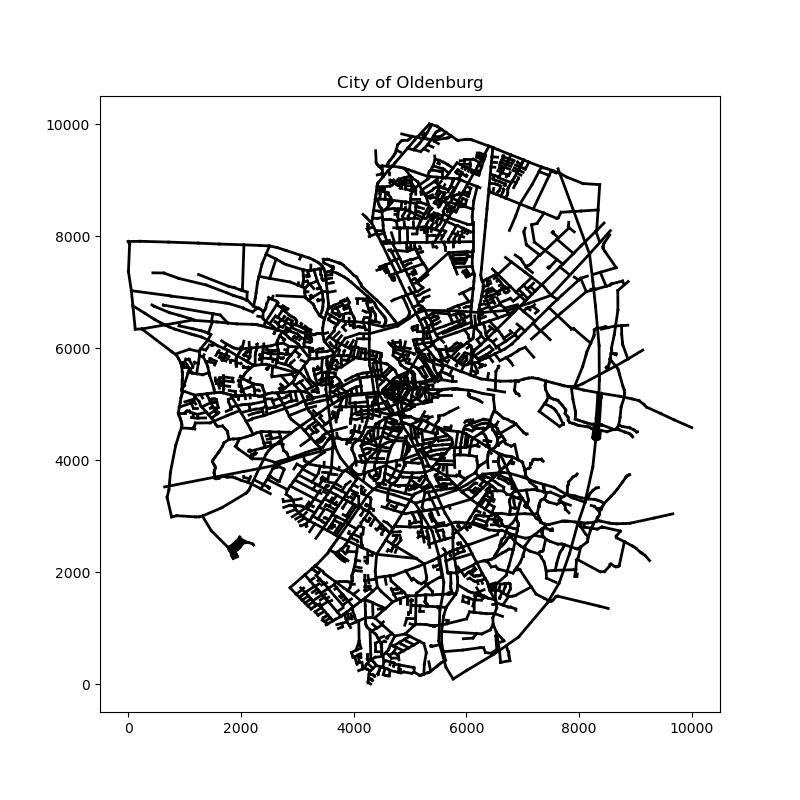
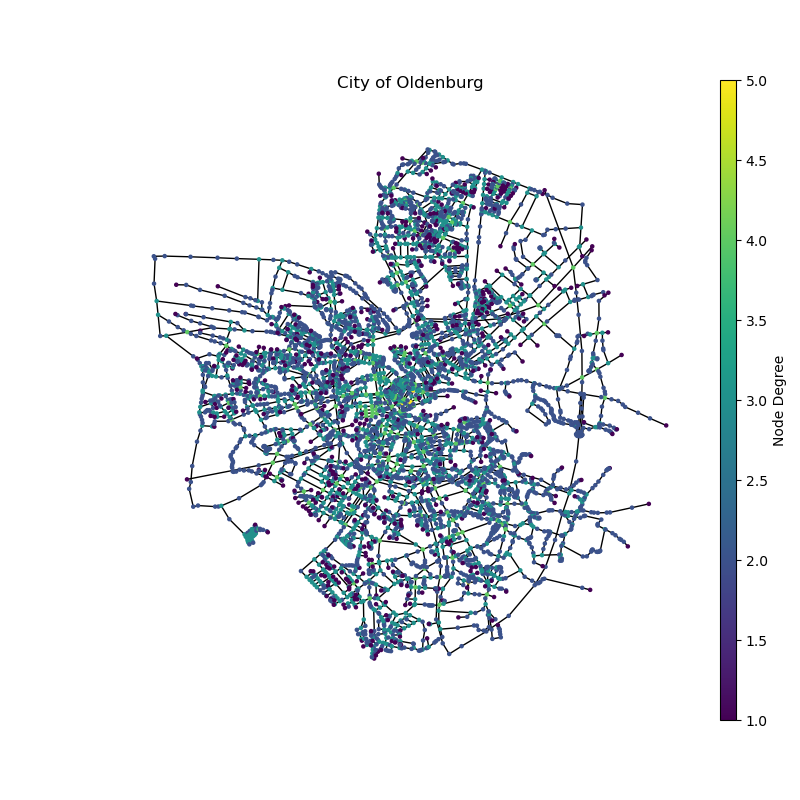
load to networkx graph and plot with and w/out nodes

diff --git a/Traffic_Inspection.py b/Traffic_Inspection.py
@@ -1,6 +1,9 @@
 import pandas as pd
 import numpy as np
+import networkx as nx
 import matplotlib.pyplot as plt
+from matplotlib.cm import ScalarMappable
+
 
 nodes_filepath = "data/nodes.txt"
 edges_filepath = "data/edges.txt"
@@ -9,30 +12,60 @@ edges_filepath = "data/edges.txt"
 df_nodes = pd.read_csv(nodes_filepath, sep=' ')
 df_edges = pd.read_csv(edges_filepath, sep=' ')
 
+city_graph = nx.Graph()
+
 nodes = {}
 for i, line in df_nodes.iterrows():
     id = int(line['Node_ID'])
     x = line['X']
     y = line['Y']
     nodes[id] = (x, y)
+    city_graph.add_node(id, x=x, y=y)
 
 edges = {}
 for i, line in df_edges.iterrows():
     id = int(line['Edge_ID'])
     start = int(line['Start_ID'])
     end = int(line['End_ID'])
+    length = line['L2']
     if start in nodes.keys() and end in nodes.keys():
         x1, y1 = nodes[start]
         x2, y2 = nodes[end]
-        edges[(start, end)] = (x1, y1, x2, y2, line['L2'])
+        edges[(start, end)] = (x1, y1, x2, y2, length)
+        city_graph.add_edge(start, end, length=length)
 
-plt.figure(figsize=(8, 8))
-#for node, (x, y) in nodes.items():
-#    plt.scatter(x, y, color='blue', s=20)
 
-for (s, e), (x1, y1, x2, y2, l2) in edges.items():
-    plt.plot([x1, x2], [y1, y2], 'k-', lw=2)
+k = dict(city_graph.degree())
 
-plt.title("City of Oldenburg")
+print(f'In the city graph the nodes have following degrees {np.unique(list(k.values()))}')
+
+# plot graph
+# adjust node size to show or not show nodes
+#"""
+node_colors = [k[node] for node in city_graph.nodes]
+cmap = plt.cm.viridis
+norm = plt.Normalize(min(node_colors), max(node_colors))
+node_colors = [cmap(norm(degree)) for degree in node_colors]
+
+fig, ax = plt.subplots(figsize=(8, 8))
+pos = {node: (city_graph.nodes[node]['x'], city_graph.nodes[node]['y']) for node in city_graph.nodes}
+nx.draw(city_graph, pos, node_size=5, node_color=node_colors)
+
+# add legend
+sm = ScalarMappable(cmap=cmap, norm=norm)
+cbar_ax = fig.add_axes([0.9, 0.1, 0.02, 0.8])  # Adjust these values to position the colorbar
+cbar = plt.colorbar(sm, cax=cbar_ax, orientation='vertical', label='Node Degree')
+
+ax.set_title("City of Oldenburg")
 plt.savefig('plots/city.png')
 plt.show()
+
+
+fig, ax = plt.subplots(figsize=(8, 8))
+pos = {node: (city_graph.nodes[node]['x'], city_graph.nodes[node]['y']) for node in city_graph.nodes}
+nx.draw(city_graph, pos, node_size=0, node_color=node_colors)
+
+ax.set_title("City of Oldenburg")
+plt.savefig('plots/city_egdes.png')
+plt.show()
+#"""
